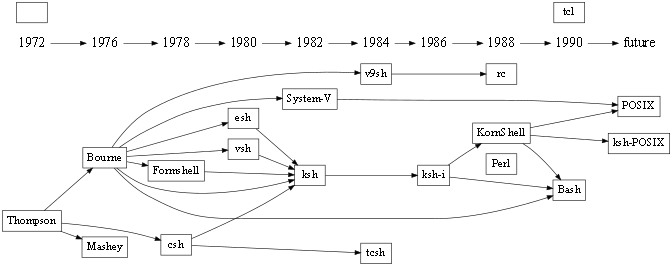
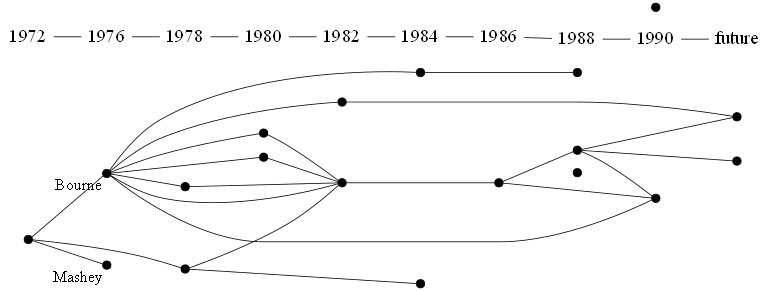
Some modifications

diff --git a/timeline.py b/timeline.py
@@ -8,7 +8,8 @@ def draw_graph(filename):
 def main():
     draw_graph("timeline")
     draw_graph("timeline2")
-
+    draw_graph("fm_timeline")
 
 if __name__ == "__main__":
     main()
+
